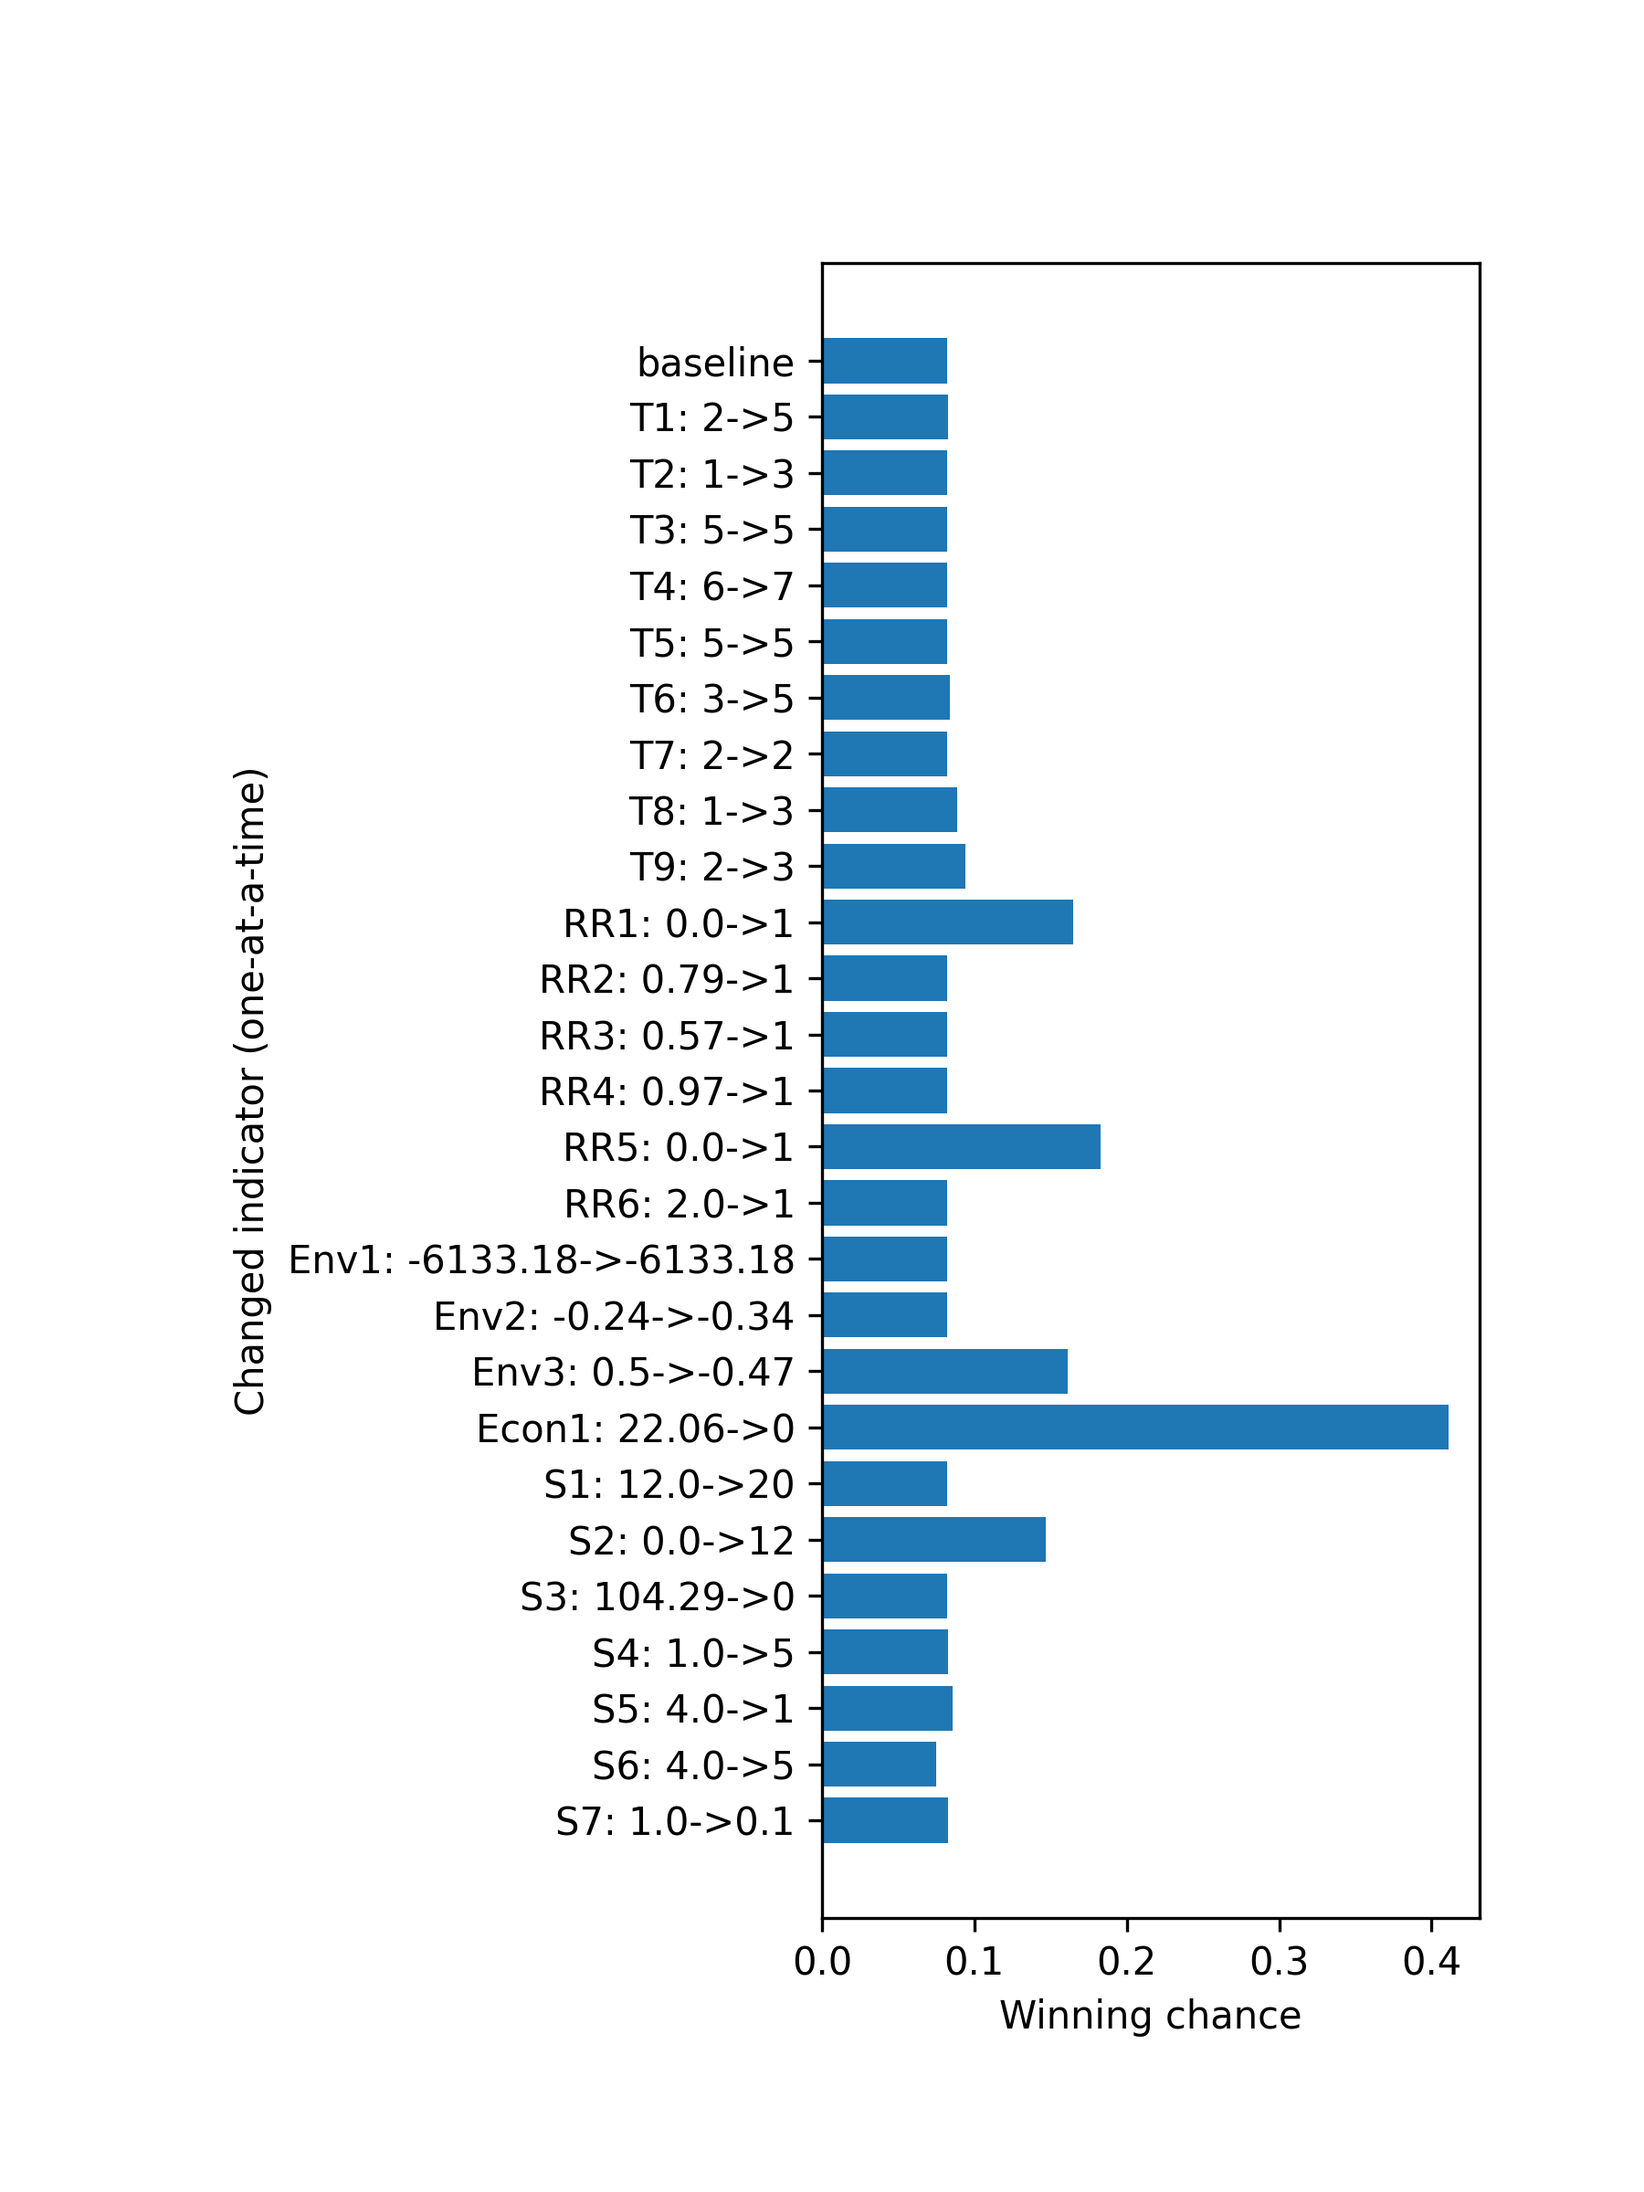
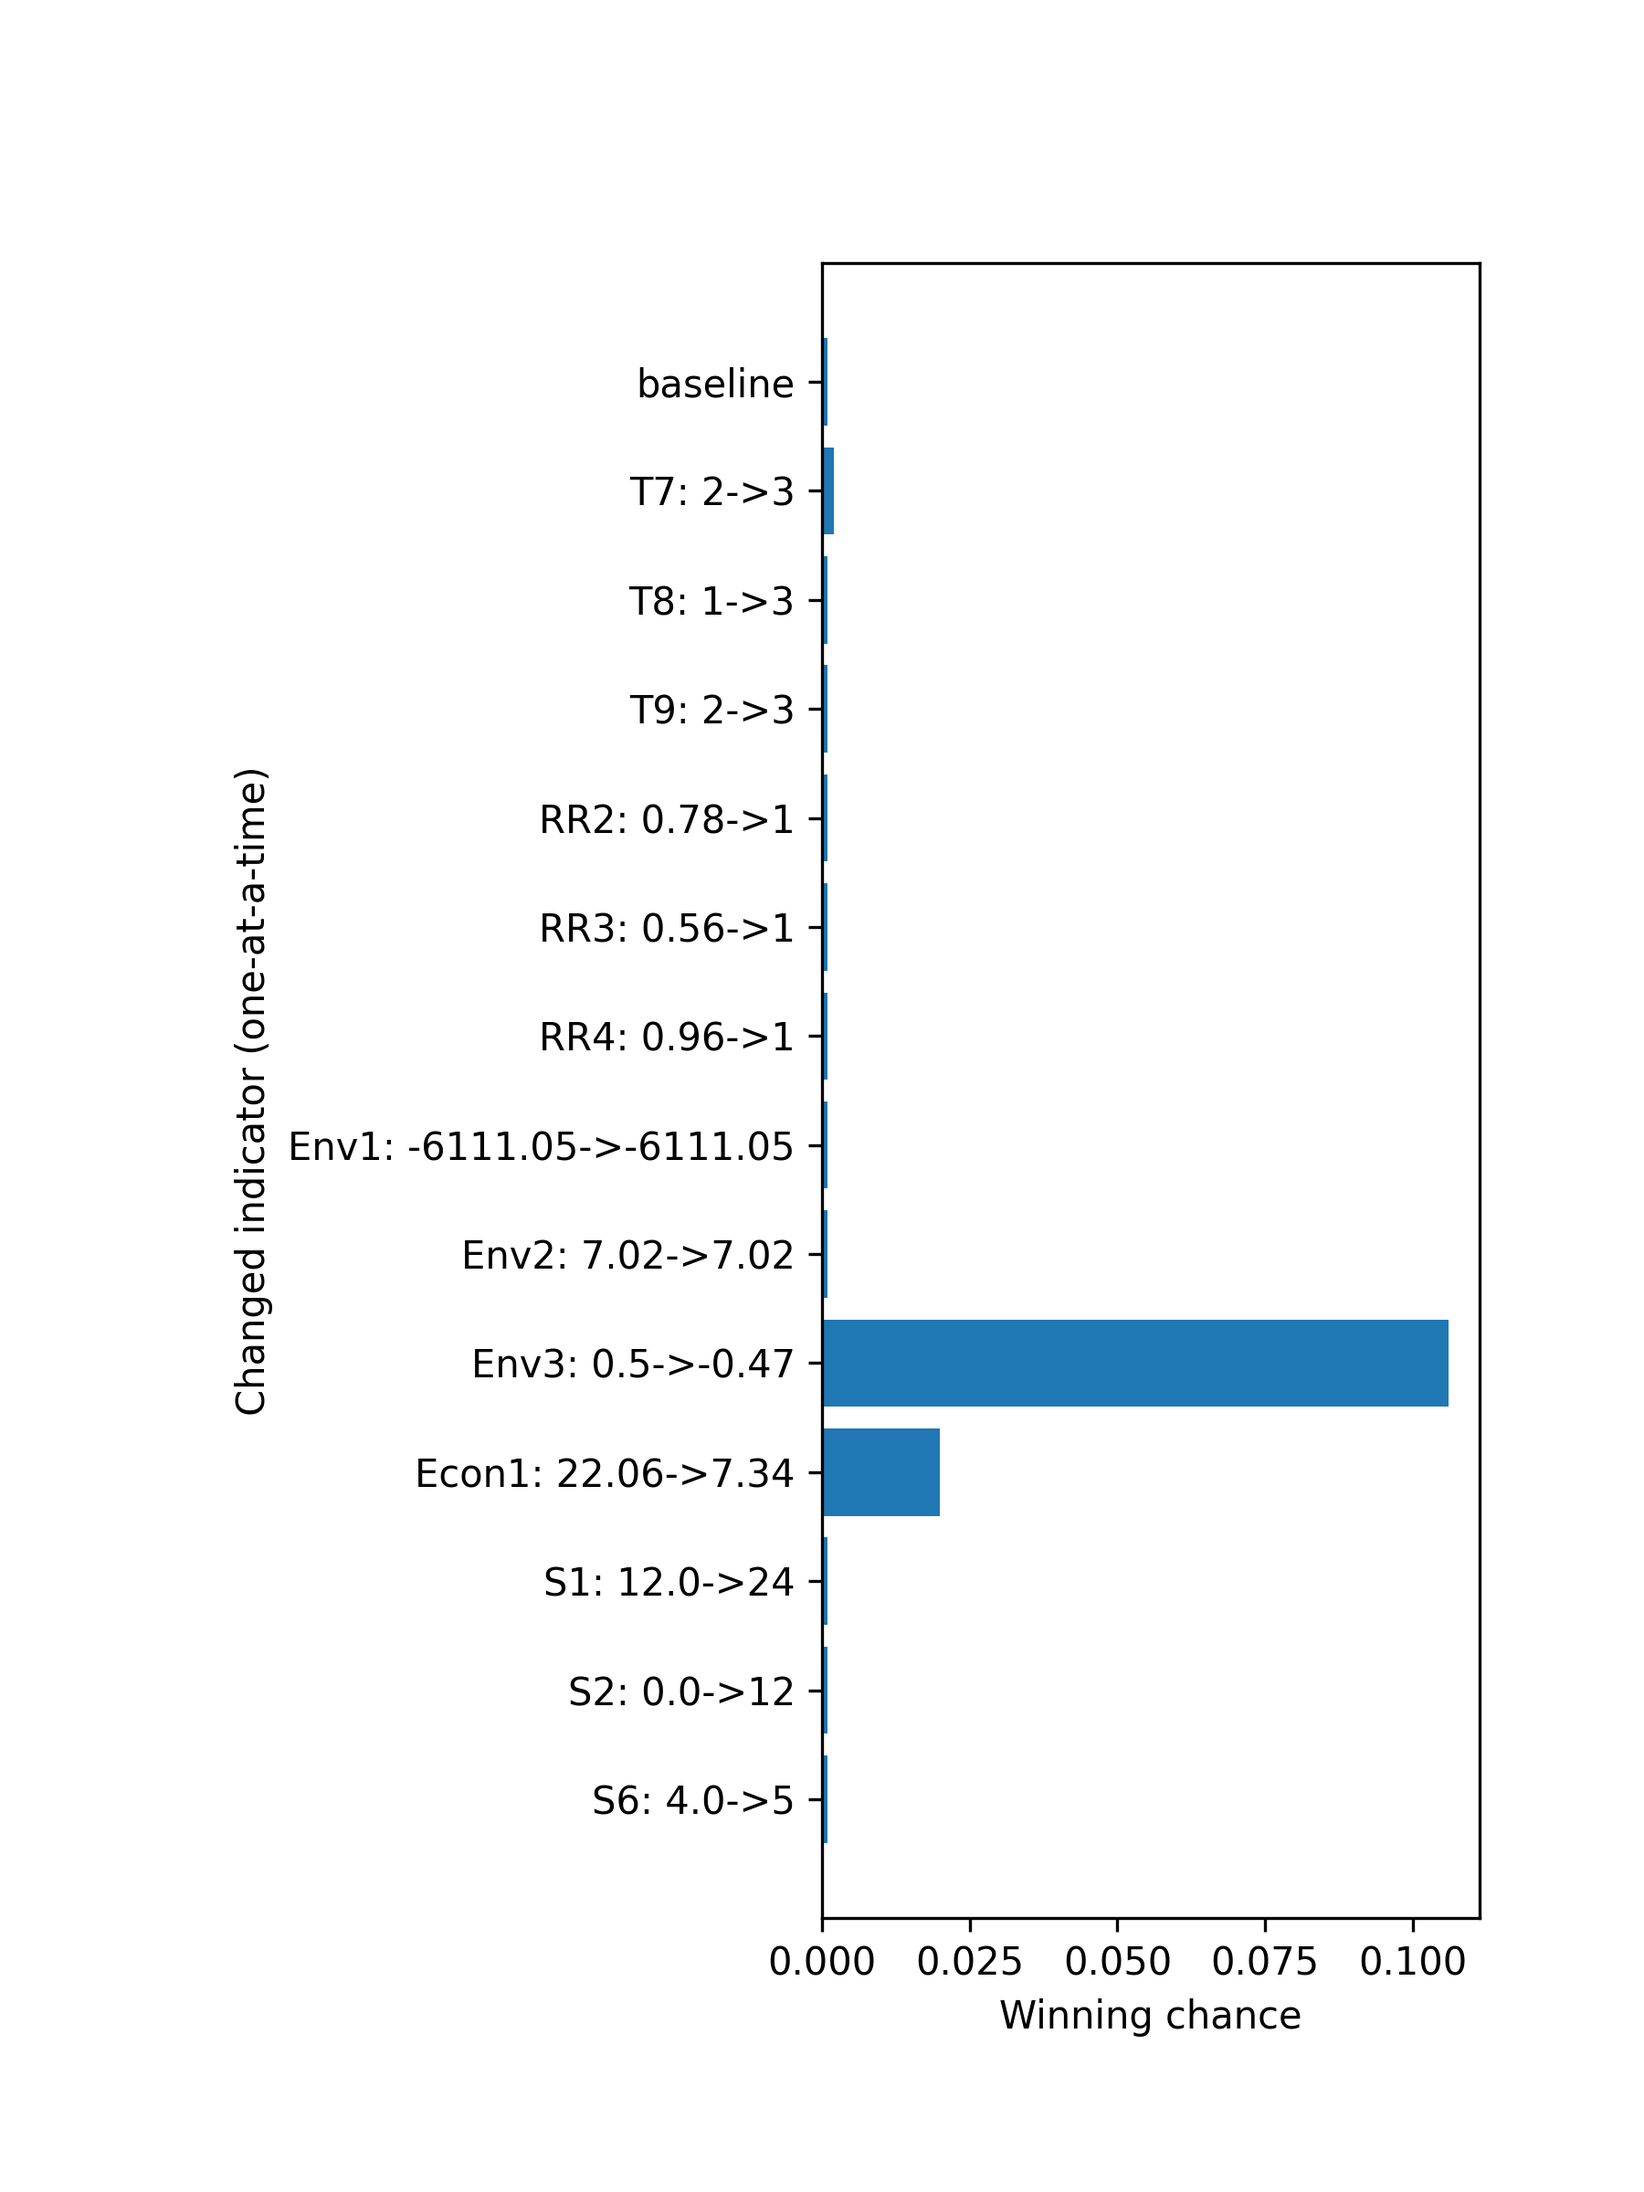
update results with 1000 scenarios

diff --git a/dmsan/bwaise/uncertainty_sensitivity.py b/dmsan/bwaise/uncertainty_sensitivity.py
@@ -35,7 +35,7 @@ read_baseline = lambda name: pd.read_excel(score_file, name).expected
 rng = np.random.default_rng(3221) # set random number generator for reproducible results
 
 criterion_num = 5 # number of criteria
-wt_scenario_num = 10 # number of criterion weights considered
+wt_scenario_num = 1000 # number of criterion weights considered
 
 # `lca_perspective` can be "I", "H", or "E" for
 # individualist, hierarchist, or egalitarian
@@ -391,20 +391,21 @@ def run_analyses(save_sensitivity_excel=False):
         bwaise_mcda.run_MCDA_multi_scores(criterion_weights=weight_df,
                                           ind_score_dct=ind_score_dct)
 
+    #!!! Sensitivity looks weird, might need to rewrite
     kind = 'Spearman'
     global score_corr_dct, rank_corr_dct
-    score_corr_dct = run_uncertainty_corr(score_df_dct, kind)
-    rank_corr_dct = run_uncertainty_corr(rank_df_dct, kind)
-    if save_sensitivity_excel: # too large, prefer not to do it
-        export_to_excel(indicator_weights=True, mcda=True, uncertainty=False, sensitivity='Spearman')
-    export_to_pickle(ahp=True, mcda=True, uncertainty=True, sensitivity='Spearman')
+    # score_corr_dct = run_uncertainty_corr(score_df_dct, kind)
+    # rank_corr_dct = run_uncertainty_corr(rank_df_dct, kind)
+    # if save_sensitivity_excel: # too large, prefer not to do it
+    #     export_to_excel(indicator_weights=True, mcda=True, uncertainty=False, sensitivity='Spearman')
+    # export_to_pickle(ahp=True, mcda=True, uncertainty=True, sensitivity='Spearman')
 
     kind = 'KS'
     rank_corr_dct = run_uncertainty_corr(rank_df_dct, kind)
-    if save_sensitivity_excel: # too large, prefer not to do it
-        export_to_excel(indicator_weights=False, mcda=False, uncertainty=False, sensitivity='KS')
+    # if save_sensitivity_excel: # too large, prefer not to do it
+    #     export_to_excel(indicator_weights=False, mcda=False, uncertainty=False, sensitivity='KS')
 
-    export_to_pickle(ahp=False, mcda=False, uncertainty=False, sensitivity='KS')
+    # export_to_pickle(ahp=False, mcda=False, uncertainty=False, sensitivity='KS')
 
 
 if __name__ == '__main__':

diff --git a/dmsan/bwaise/improvements.py b/dmsan/bwaise/improvements.py
@@ -516,7 +516,7 @@ def get_indicator_chances(glob_df_comb, file_path=''):
 
     return include_df, exclude_df
 
-#%%
+
 def plot_indicator_chances(indicator_df, file_path=''):
     sns.set_theme(style='white', rc={'axes.facecolor': (0, 0, 0, 0)})
     df = indicator_df.stack().reset_index().drop('level_0', axis=1)
